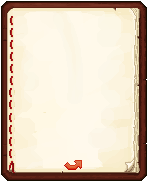
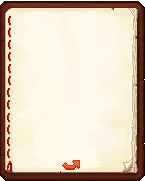
Added a book-open-animation. Fixed page-overflow and redesigned the memberPage

diff --git a/css/main.css b/css/main.css
@@ -71,30 +71,31 @@ body {
 
 
 
-#info_memberHolder {
+.memberHolder {
 	position: relative;
 	left: 0;
 	width: auto;
 	height: auto;
 }
 
-	#info_memberHolder .avatarHolder {
+	.memberHolder .avatarHolder {
 		position: relative;
 		float: left;
-		width: 120px;
-
-		padding-bottom: 50px;
+		width: calc(25%);
+		padding: 0 4.17%;
+		padding-top: 50px;
 	}
 
-		#info_memberHolder .avatarHolder .avatar {
+		.memberHolder .avatarHolder .avatar {
 			position: relative;
 			width: calc(100% - 25% * 2);
 			padding: 0 25%;
 			height: auto;
 		}
 
-		#info_memberHolder .avatarHolder .text {
+		.memberHolder .avatarHolder .text {
 			text-align: center;
+			color: #333;
 		}
 
 

diff --git a/info.php b/info.php
@@ -6,7 +6,7 @@
 <html>
     <head>
         <meta content='width=device-width, initial-scale=1, maximum-scale=1, user-scalable=0' name='viewport'/>
-        <link rel="stylesheet" type="text/css" href="css/main.css?antiCache=6">
+        <link rel="stylesheet" type="text/css" href="css/main.css?antiCache=7">
         <title><?php echo $CONFIG["server"]["name"] . " - Info"; ?></title>
         <script type="text/javascript" src="js/jQuery.js"></script>
 
@@ -50,8 +50,6 @@
             }
 
             #blogHolder .page:nth-child(2n - 1) {
-                margin-right: -7px;
-
                 background-image: url("images/bookPageLeft.png");
                 background-repeat: no-repeat;
                 background-size: 100% 100%;
@@ -65,10 +63,16 @@
             }
 
 
+            #blogHolder.closed .page:nth-child(2n) {
+                left: 25%;
+                z-index: 100;
+            }
+
+
+
 
             #blogHolder .page:nth-child(2n) {
-                left: calc(50%);
-                margin-left: -7px;
+                left: 50%;
 
                 background-image: url("images/bookPageRight.png");
                 background-repeat: no-repeat;
@@ -81,6 +85,7 @@
                 transform: rotateY(-180deg);
                 opacity: .2;
             }
+
 
 
 
@@ -111,11 +116,10 @@
                 echo $files[$index];
             ?>)"></div>
 
-           <div id="blogHolder" class="text">
+           <div id="blogHolder" class="text closed">
     
                 <?php
                     // Use [newLine] for a new line
-
 
                     $data = file_get_contents("uploads/testBlog.html");
                     $charsPerPage = 1000;
@@ -153,22 +157,30 @@
                     if ($curChars !== 0) echo '<div class="page hide">' . $pageText . '</div>';
                 ?>
 
-            
-                <div class="page hide">
-                    <div id='info_memberHolder'>
-                        <?php
-                            $c = 0;
-                            $members = json_decode(file_get_contents($CONFIG["memberData-url"]), true);
-                            foreach($members as $player) {
-                                echo    "<div class='avatarHolder'>" . 
-                                            "<img src='PHP/heads.php?type=body&scale=10&username=" . $player[0] . "'' class='avatar'>" . 
-                                            "<div class='text'>" . $player[0] . "</div>" . 
-                                        "</div>";
-                                $c++;
-                            }
-                        ?>
-                    </div>
-                </div>
+         
+                <?php
+                    $members = json_decode(file_get_contents($CONFIG["memberData-url"]), true);
+                    
+                    for ($i = 0; $i < sizeof($members); $i += 6)
+                    {
+                        echo '<div class="page memberHolder hide">';
+                        if ($i == 0) echo "<h1>Members</h1>";
+                        
+                        for ($ri = 0; $ri < 6; $ri++)
+                        {
+                            $index = $i + $ri;
+                            if (!$members[$index]) continue;
+
+                            echo "<div class='avatarHolder'>" . 
+                                    "<img src='PHP/heads.php?type=body&scale=10&username=" . $members[$index][0] . "'' class='avatar'>" . 
+                                    "<div class='text'>" . $members[$index][0] . "</div>" . 
+                                "</div>";
+                        }
+
+                        echo '</div>';
+                    }
+                ?>
+    
 
                 <div class="page hide" id="placeHolderPage">
                 </div>
@@ -177,16 +189,21 @@
         
         <script type="text/javascript">
 
-            let Page = new function() {
+            let Book = new function() {
                 let This = {
                     curPage: 0,
                     openPage: openPage,
                     openNextPage: next,
                     openPrevPage: previous,
+                    openBook: openBook
                 };
                 const HTML = {
-                    pages: $("#blogHolder .page")
+                    pages: $("#blogHolder .page"),
+                    blogHolder: $("#blogHolder")[0],
                 }
+
+                HTML.pages[0].classList.add("flip");
+             
                 
                 for (let i = 0; i < HTML.pages.length; i++)
                 {
@@ -195,6 +212,18 @@
                         next();
                     }
                 }
+
+
+                function openBook() {
+                    HTML.blogHolder.classList.remove("closed");
+                    setTimeout(function() {
+                        HTML.pages[0].classList.remove("flip");
+                        Book.openPage(0);
+                    }, 500);
+                }
+
+
+
 
                 function next() {
                     openPage(This.curPage + 1, true);
@@ -206,7 +235,7 @@
 
                 let animating = false;
                 function openPage(_index, _nextPage = true) {
-                    if (_index > HTML.pages.length - 1 || _index < 0 || animating) return;
+                    if (_index * 2 > HTML.pages.length - 1 || _index < 0 || animating) return;
                     animating = true;
                         
                     let openPages = $("#blogHolder .page:not(.hide)");
@@ -252,52 +281,8 @@
             }
 
 
-            setTimeout(Page.openPage, 100, 0);
+            setTimeout(Book.openBook, 2000, 0);
         </script>
     </body>
 </html>
 
-
-
-
-<!-- 
-
-
-
-
-<?php
-    include "PHP/config.php";
-?>
-
-<!DOCTYPE html>
-<html>
-    <head>
-        <meta content='width=device-width, initial-scale=1, maximum-scale=1, user-scalable=0' name='viewport'/>
-        <link rel="stylesheet" type="text/css" href="css/main.css?a=16">
-        <title><?php echo $CONFIG["server"]["name"] . " | Info"; ?></title>
-    </head>
-    <body style="background: #000;" class="noselect">
-        <div id="topBar">
-            <img src="images/homeIcon.svg" class="button" onclick="window.location.replace('index.php')">
-        </div>
-        
-       
-        <div id="homeScreen" style="
-            background-image: url(<?php
-                $files = glob("uploads/images/*");
-                $length = sizeof($files);
-                $index = rand(0, $length - 1);
-                echo $files[$index];
-            ?>); z-index: -1; opacity: .4"></div>
-        
-        
-        <div class="text" id="homescreen_projectCraftLogo">
-            <?php echo strtoupper($CONFIG["server"]["name"]); ?>
-        </div>
-        
-      
-        <div class="text-only homescreen_projectCraftInfo" style="position: relative; left: 0px; animation-delay: 15s; bottom: 0px; margin-top: 20px;">
-            <a class="discord" href="<?php echo $CONFIG["server"]["discordLink"]; ?>">Come join us on our discord server.</a>
-        </div>
-    </body>
-</html> -->
